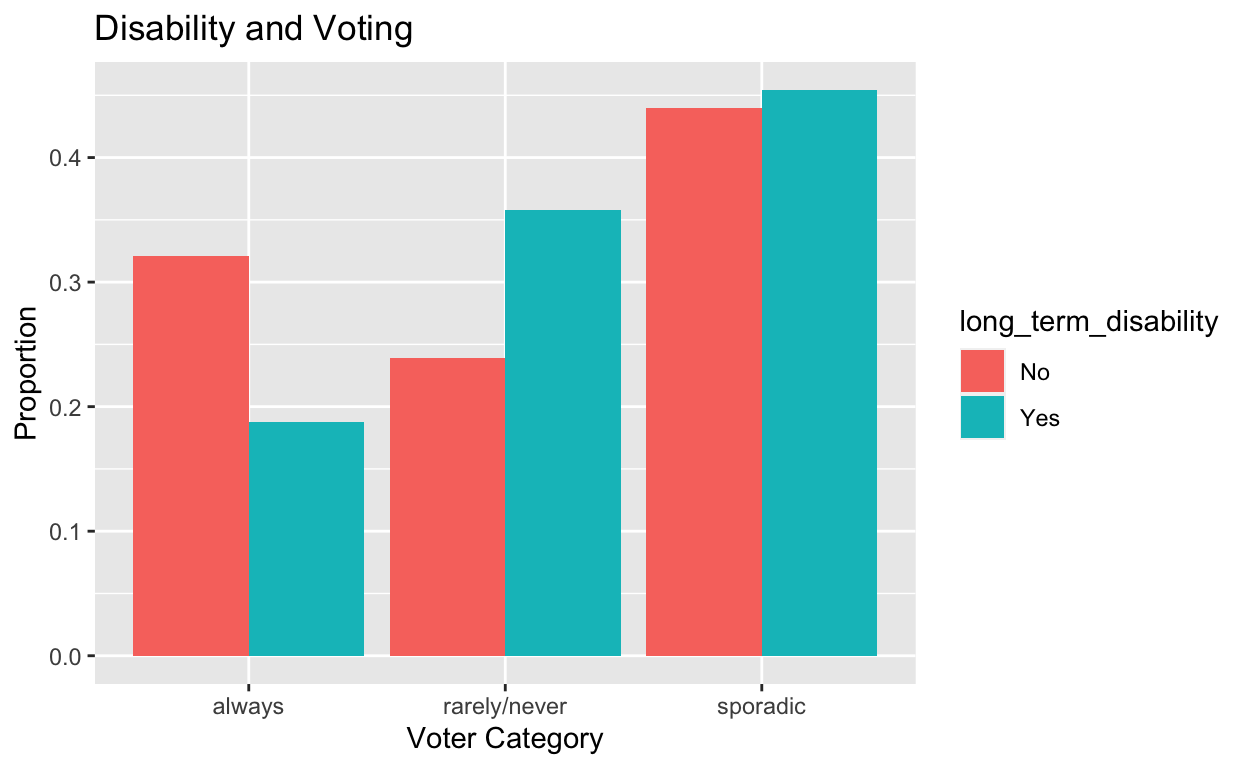
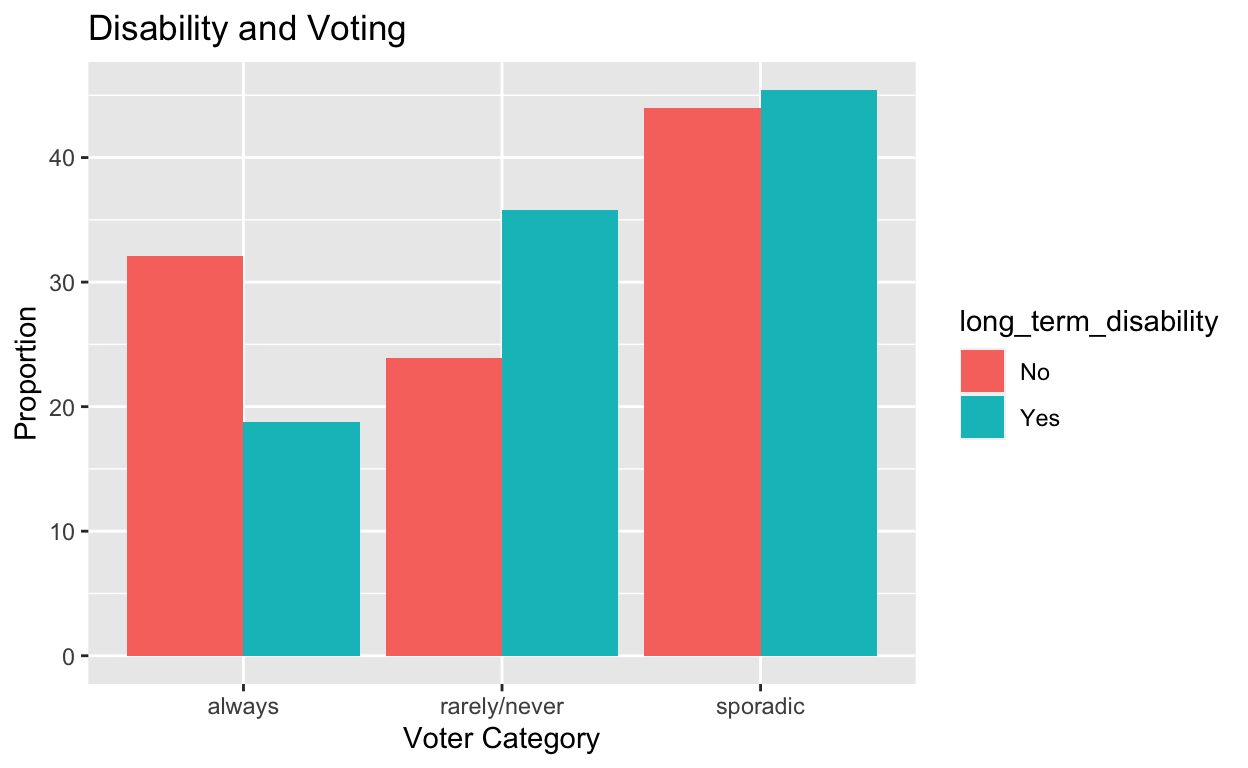
update

diff --git a/index.html b/index.html
@@ -1556,7 +1556,7 @@ code span.wa { color: #5e5e5e; font-style: italic; } /* Warning */
 <span>  <span class='va'>Q10_1</span> <span class='op'>==</span> <span class='fl'>1</span>, <span class='st'>"Yes"</span>, <span class='st'>"No"</span><span class='op'>)</span><span class='op'>)</span><span class='op'>|&gt;</span></span>
 <span>  <span class='fu'><a href='https://dplyr.tidyverse.org/reference/group_by.html'>group_by</a></span><span class='op'>(</span><span class='va'>long_term_disability</span>, <span class='va'>voter_category</span><span class='op'>)</span> <span class='op'>|&gt;</span></span>
 <span>  <span class='fu'><a href='https://dplyr.tidyverse.org/reference/summarise.html'>summarize</a></span><span class='op'>(</span>n <span class='op'>=</span> <span class='fu'><a href='https://dplyr.tidyverse.org/reference/context.html'>n</a></span><span class='op'>(</span><span class='op'>)</span><span class='op'>)</span> <span class='op'>|&gt;</span></span>
-<span>  <span class='fu'><a href='https://dplyr.tidyverse.org/reference/mutate.html'>mutate</a></span><span class='op'>(</span>prop <span class='op'>=</span> <span class='va'>n</span> <span class='op'>/</span> <span class='fu'><a href='https://rdrr.io/r/base/sum.html'>sum</a></span><span class='op'>(</span><span class='va'>n</span><span class='op'>)</span><span class='op'>)</span></span>
+<span>  <span class='fu'><a href='https://dplyr.tidyverse.org/reference/mutate.html'>mutate</a></span><span class='op'>(</span>prop <span class='op'>=</span> <span class='va'>n</span> <span class='op'>/</span> <span class='fu'><a href='https://rdrr.io/r/base/sum.html'>sum</a></span><span class='op'>(</span><span class='va'>n</span><span class='op'>)</span><span class='op'>*</span><span class='fl'>100</span><span class='op'>)</span></span>
 <span><span class='fu'><a href='https://ggplot2.tidyverse.org/reference/ggplot.html'>ggplot</a></span><span class='op'>(</span>data<span class='op'>=</span><span class='va'>nonvoters</span>, mapping<span class='op'>=</span> <span class='fu'><a href='https://ggplot2.tidyverse.org/reference/aes.html'>aes</a></span><span class='op'>(</span>x<span class='op'>=</span><span class='va'>voter_category</span>, y<span class='op'>=</span><span class='va'>prop</span>, fill<span class='op'>=</span><span class='va'>long_term_disability</span><span class='op'>)</span><span class='op'>)</span> <span class='op'>+</span></span>
 <span>  <span class='fu'><a href='https://ggplot2.tidyverse.org/reference/geom_bar.html'>geom_col</a></span><span class='op'>(</span>position<span class='op'>=</span><span class='st'>"dodge"</span><span class='op'>)</span><span class='op'>+</span></span>
 <span>    <span class='fu'><a href='https://ggplot2.tidyverse.org/reference/labs.html'>labs</a></span><span class='op'>(</span></span>
@@ -1567,6 +1567,65 @@ code span.wa { color: #5e5e5e; font-style: italic; } /* Warning */
 <p><img src="index_files/figure-html5/unnamed-chunk-2-1.png" width="624" /></p>
 </div>
 <p>Based on the visualization, people with long-term disability tend to vote less than people without long-term disability.</p>
+<h2 id="milestone-4-data-visualization-add-results-from-one-analysis">Milestone 4 Data Visualization (Add results from one analysis)</h2>
+<div class="layout-chunk" data-layout="l-body">
+<div class="sourceCode">
+<pre class="sourceCode r"><code class="sourceCode r"><span><span class='va'>nonvoters</span> <span class='op'>|&gt;</span></span>
+<span>  <span class='fu'><a href='https://dplyr.tidyverse.org/reference/mutate.html'>mutate</a></span><span class='op'>(</span>long_term_disability<span class='op'>=</span><span class='fu'><a href='https://dplyr.tidyverse.org/reference/if_else.html'>if_else</a></span><span class='op'>(</span><span class='va'>long_term_disability</span><span class='op'>==</span><span class='st'>"No"</span>, <span class='st'>"Not Long-term Disabled"</span>, <span class='st'>"Long-Term Disabled"</span><span class='op'>)</span><span class='op'>)</span> <span class='op'>|&gt;</span></span>
+<span>  <span class='fu'><a href='https://dplyr.tidyverse.org/reference/filter.html'>filter</a></span><span class='op'>(</span><span class='va'>voter_category</span><span class='op'>==</span><span class='st'>"always"</span><span class='op'>)</span> <span class='op'>|&gt;</span></span>
+<span>  <span class='fu'><a href='https://dplyr.tidyverse.org/reference/select.html'>select</a></span><span class='op'>(</span><span class='va'>long_term_disability</span>, <span class='va'>prop</span><span class='op'>)</span> <span class='op'>|&gt;</span></span>
+<span>  <span class='fu'><a href='https://tidyr.tidyverse.org/reference/pivot_wider.html'>pivot_wider</a></span><span class='op'>(</span>names_from <span class='op'>=</span> <span class='va'>long_term_disability</span>,</span>
+<span>              values_from <span class='op'>=</span> <span class='va'>prop</span><span class='op'>)</span> <span class='op'>|&gt;</span></span>
+<span>  <span class='fu'><a href='https://dplyr.tidyverse.org/reference/mutate.html'>mutate</a></span><span class='op'>(</span>Difference <span class='op'>=</span> <span class='va'>`Not Long-term Disabled`</span><span class='op'>-</span><span class='va'>`Long-Term Disabled`</span><span class='op'>)</span> <span class='op'>|&gt;</span></span>
+<span><span class='fu'>knitr</span><span class='fu'>::</span><span class='fu'><a href='https://rdrr.io/pkg/knitr/man/kable.html'>kable</a></span><span class='op'>(</span><span class='op'>)</span></span></code></pre>
+</div>
+<table>
+<thead>
+<tr class="header">
+<th style="text-align: right;">Not Long-term Disabled</th>
+<th style="text-align: right;">Long-Term Disabled</th>
+<th style="text-align: right;">Difference</th>
+</tr>
+</thead>
+<tbody>
+<tr class="odd">
+<td style="text-align: right;">32.1036</td>
+<td style="text-align: right;">18.76333</td>
+<td style="text-align: right;">13.34027</td>
+</tr>
+</tbody>
+</table>
+</div>
+<p>The table shows that those without long-term disability has a 13.34% points higher than those with long-term disability in their voting pattern as “always” turning out for voting.</p>
+<div class="layout-chunk" data-layout="l-body">
+<div class="sourceCode">
+<pre class="sourceCode r"><code class="sourceCode r"><span><span class='va'>nonvoters</span> <span class='op'>|&gt;</span></span>
+<span>  <span class='fu'><a href='https://dplyr.tidyverse.org/reference/mutate.html'>mutate</a></span><span class='op'>(</span>long_term_disability<span class='op'>=</span><span class='fu'><a href='https://dplyr.tidyverse.org/reference/if_else.html'>if_else</a></span><span class='op'>(</span><span class='va'>long_term_disability</span><span class='op'>==</span><span class='st'>"No"</span>, <span class='st'>"Not Long-term Disabled"</span>, <span class='st'>"Long-Term Disabled"</span><span class='op'>)</span><span class='op'>)</span> <span class='op'>|&gt;</span></span>
+<span>  <span class='fu'><a href='https://dplyr.tidyverse.org/reference/filter.html'>filter</a></span><span class='op'>(</span><span class='va'>voter_category</span><span class='op'>==</span><span class='st'>"rarely/never"</span><span class='op'>)</span> <span class='op'>|&gt;</span></span>
+<span>  <span class='fu'><a href='https://dplyr.tidyverse.org/reference/select.html'>select</a></span><span class='op'>(</span><span class='va'>long_term_disability</span>, <span class='va'>prop</span><span class='op'>)</span> <span class='op'>|&gt;</span></span>
+<span>  <span class='fu'><a href='https://tidyr.tidyverse.org/reference/pivot_wider.html'>pivot_wider</a></span><span class='op'>(</span>names_from <span class='op'>=</span> <span class='va'>long_term_disability</span>,</span>
+<span>              values_from <span class='op'>=</span> <span class='va'>prop</span><span class='op'>)</span> <span class='op'>|&gt;</span></span>
+<span>  <span class='fu'><a href='https://dplyr.tidyverse.org/reference/mutate.html'>mutate</a></span><span class='op'>(</span>Difference <span class='op'>=</span> <span class='va'>`Not Long-term Disabled`</span><span class='op'>-</span><span class='va'>`Long-Term Disabled`</span><span class='op'>)</span><span class='op'>|&gt;</span></span>
+<span>  <span class='fu'>knitr</span><span class='fu'>::</span><span class='fu'><a href='https://rdrr.io/pkg/knitr/man/kable.html'>kable</a></span><span class='op'>(</span><span class='op'>)</span></span></code></pre>
+</div>
+<table>
+<thead>
+<tr class="header">
+<th style="text-align: right;">Not Long-term Disabled</th>
+<th style="text-align: right;">Long-Term Disabled</th>
+<th style="text-align: right;">Difference</th>
+</tr>
+</thead>
+<tbody>
+<tr class="odd">
+<td style="text-align: right;">23.90535</td>
+<td style="text-align: right;">35.8209</td>
+<td style="text-align: right;">-11.91555</td>
+</tr>
+</tbody>
+</table>
+</div>
+<p>The table shows that those with long-term disability has a 11.92% points higher than those without long-term disability in their voting pattern as “rarely” turning out for voting.</p>
 <div class="sourceCode" id="cb2"><pre class="sourceCode r distill-force-highlighting-css"><code class="sourceCode r"></code></pre></div>
 <!--radix_placeholder_article_footer-->
 <!--/radix_placeholder_article_footer-->
